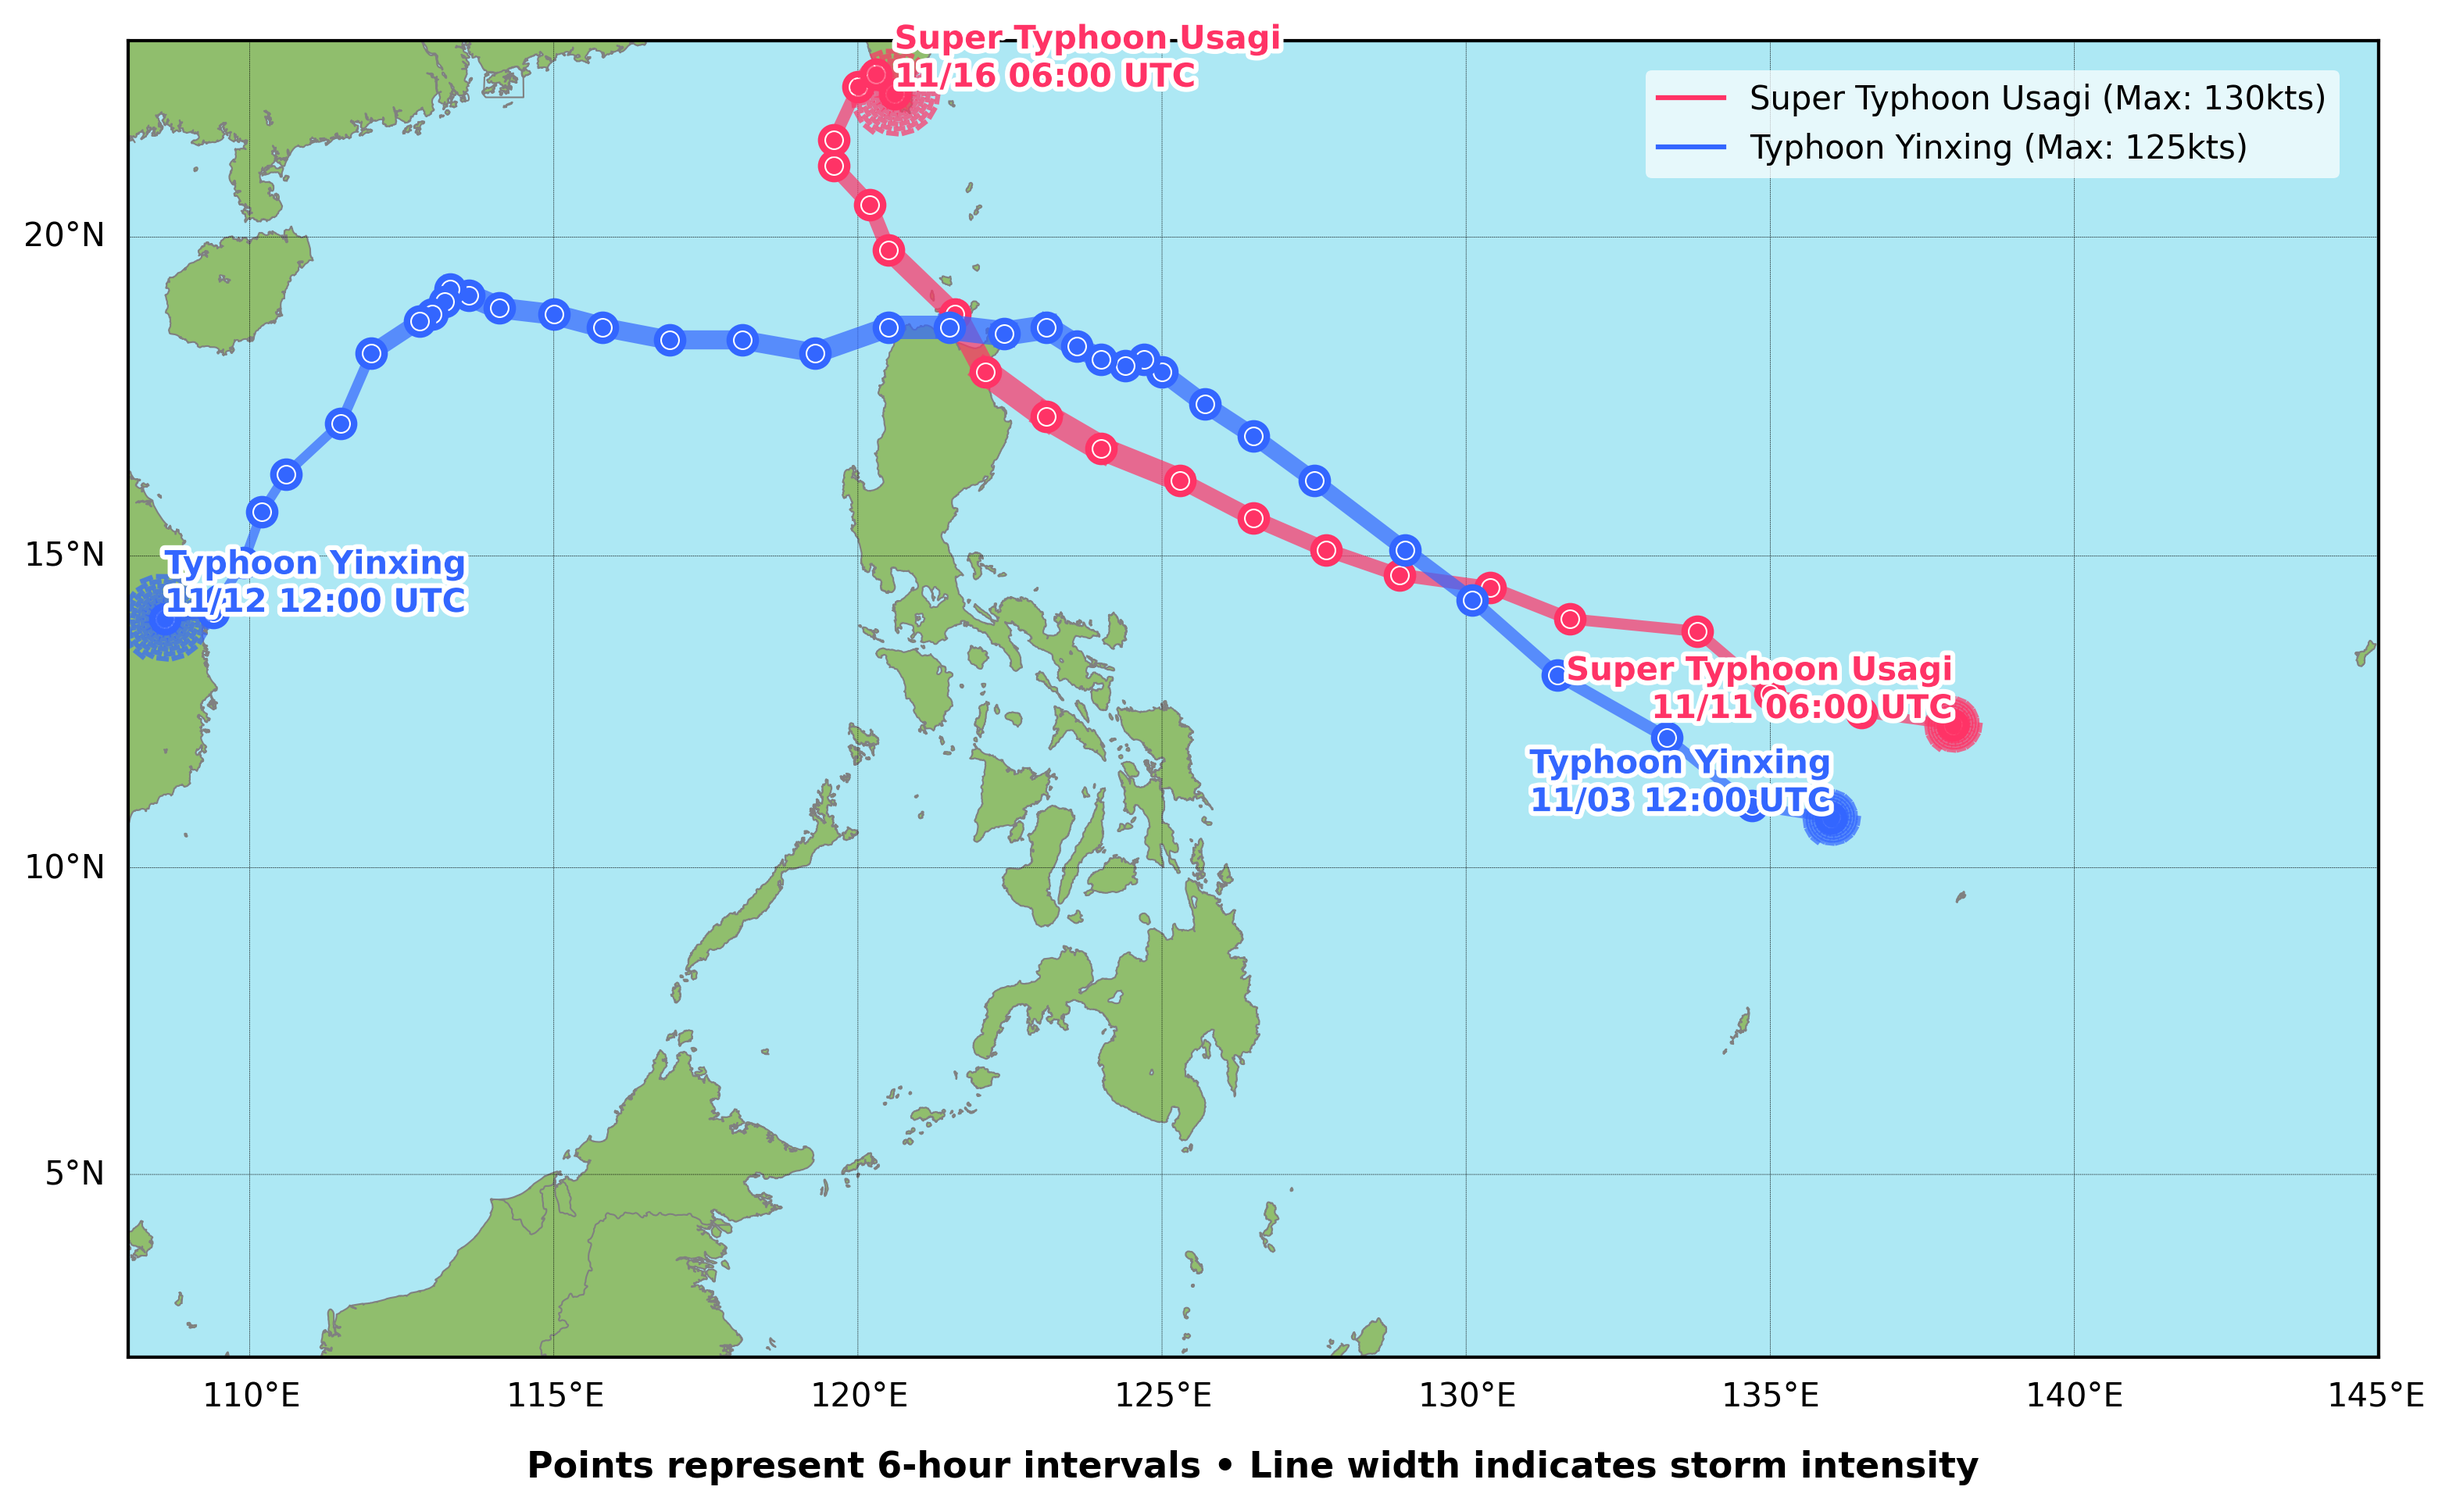
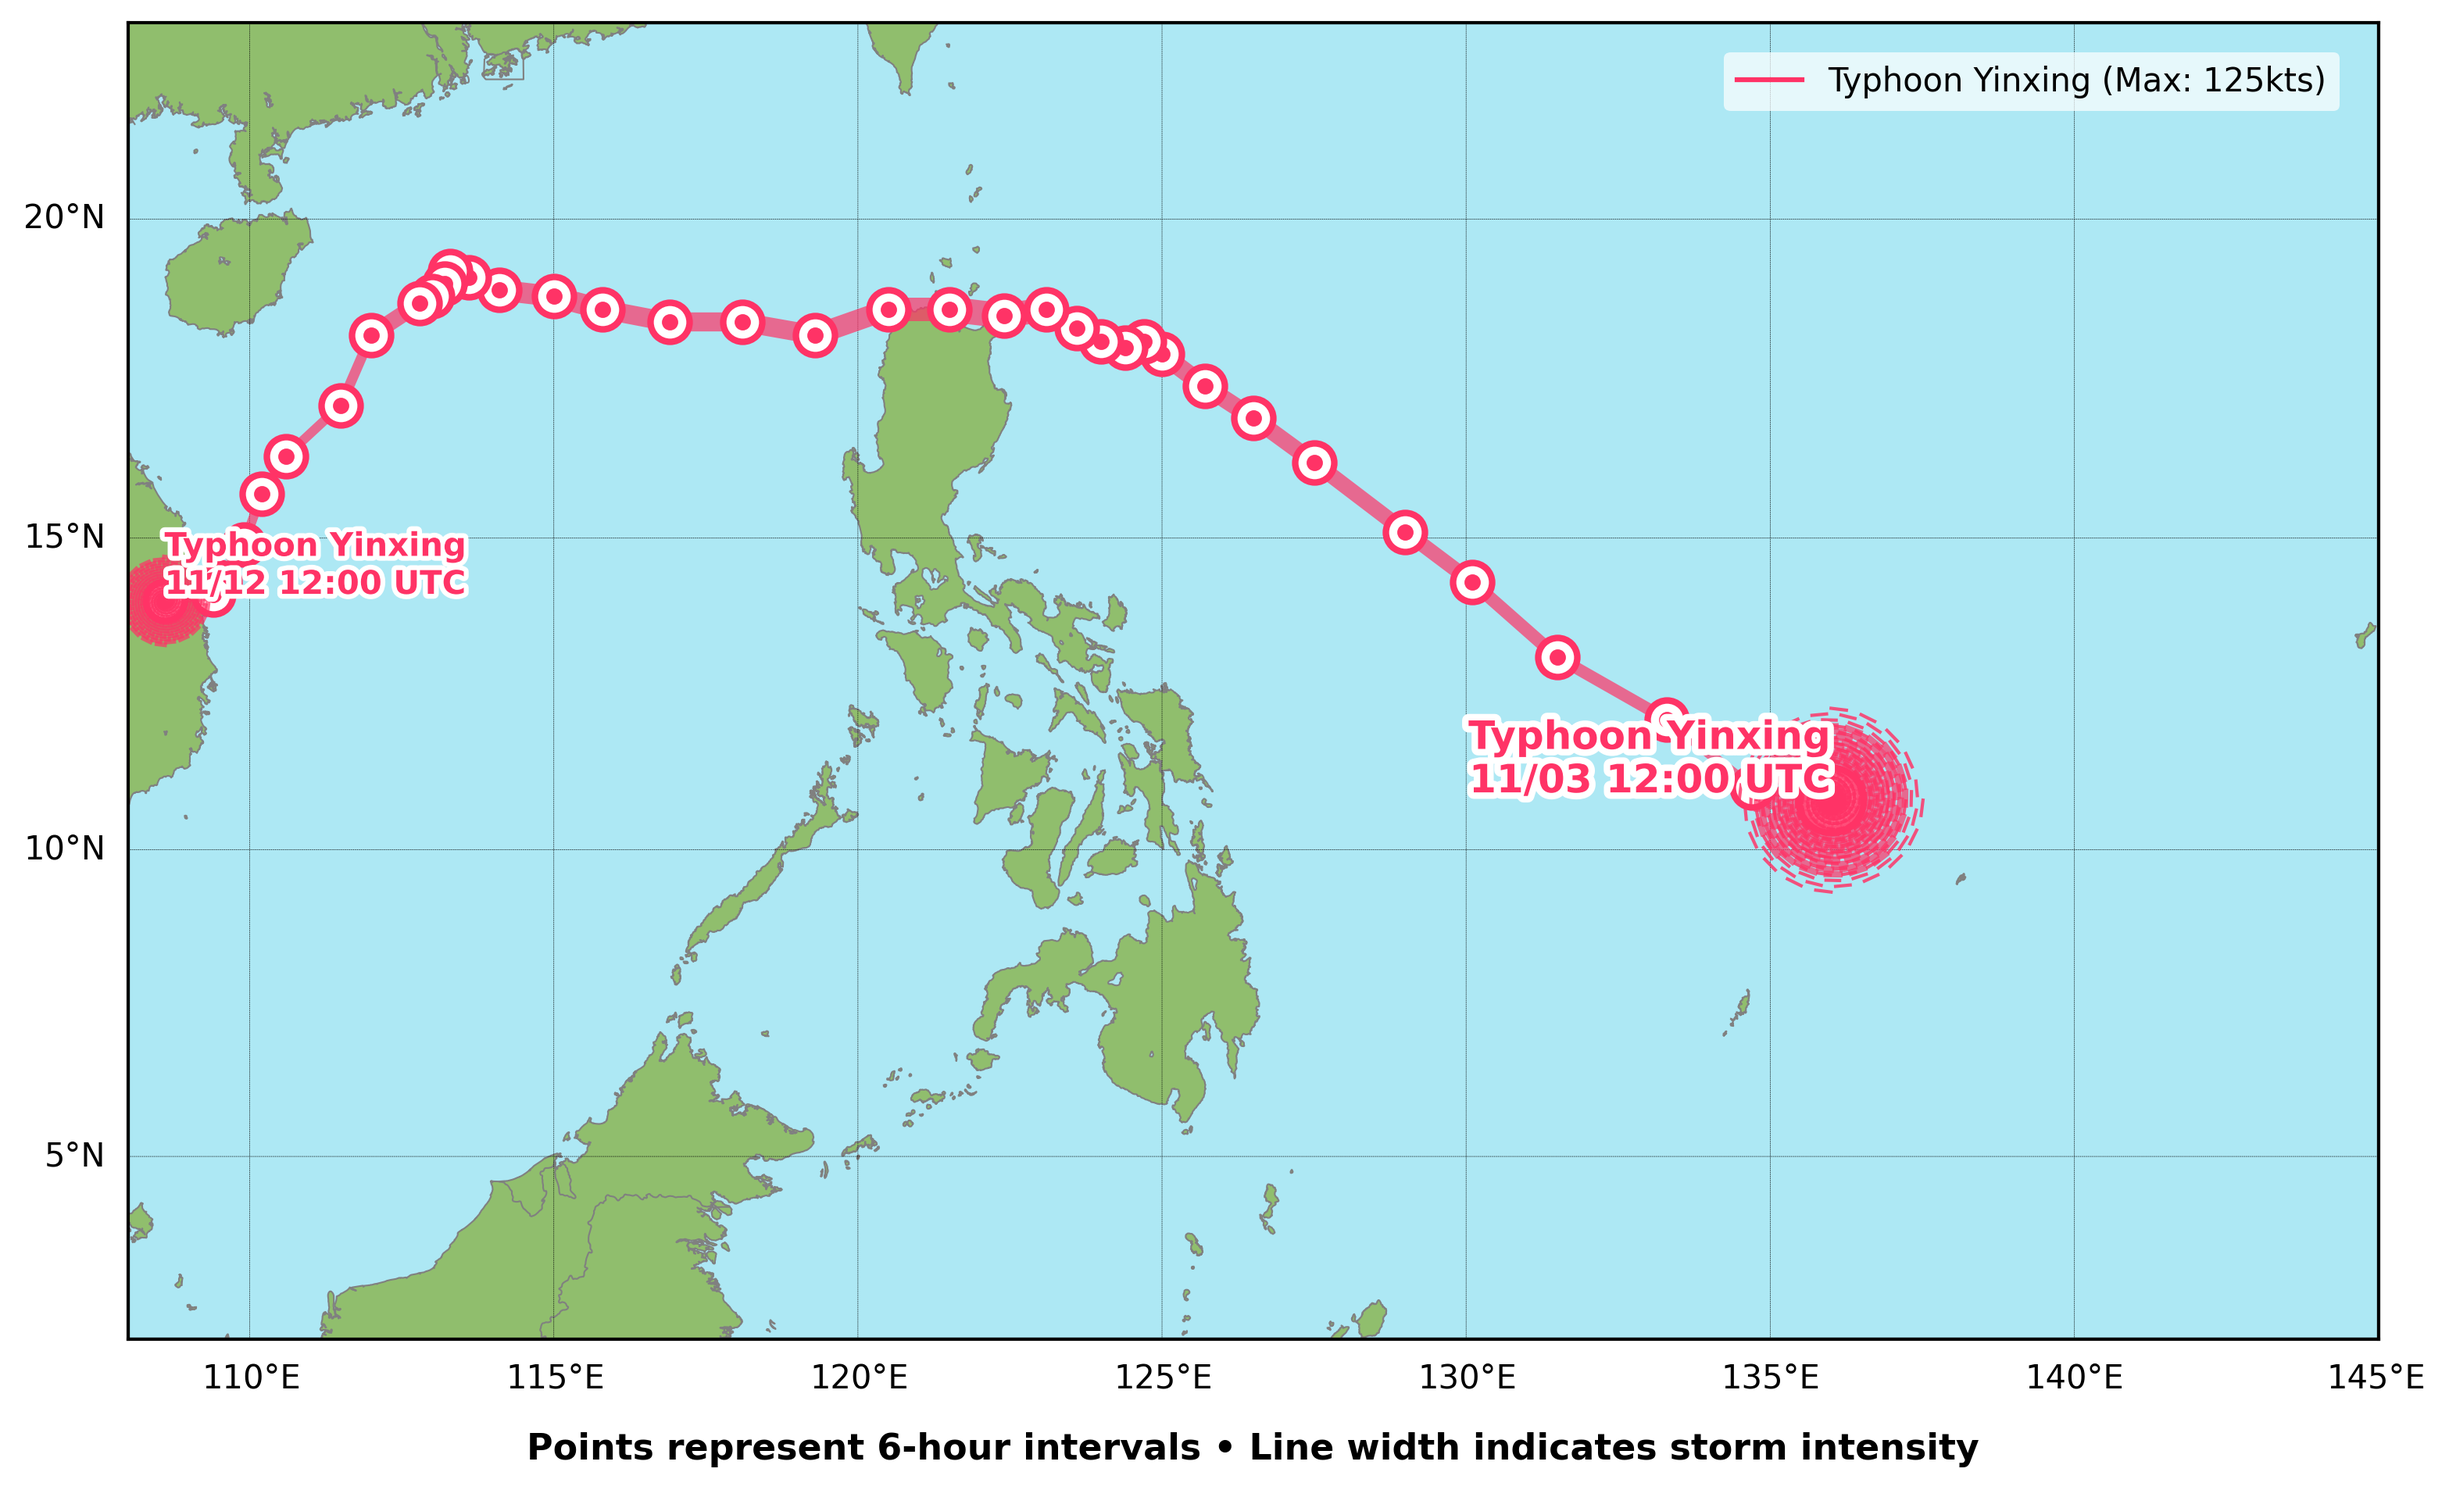
Better visualization
- Bigger typhoon/cyclone initial size
- Coordinates are more visible
- Modified /weather command behavior

diff --git a/src/bot.py b/src/bot.py
@@ -20,6 +20,7 @@ class WeatherBot(discord.Client):
         self.visualizer = StormVisualizer()
         self.cache = Cache()
         self.ph_timezone = pytz.timezone('Asia/Manila')
+        self.bg_task = None
 
         @self.tree.command(name="weather", description="Get Philippines Weather Updates.")
         async def weather(interaction: discord.Interaction):
@@ -27,8 +28,29 @@ class WeatherBot(discord.Client):
             logger.info(f"/weather command used in channel: {interaction.channel.name}")
 
             weather_channel = await self._get_or_create_weather_channel(interaction.guild)
-            await self._send_weather_update(weather_channel, interaction.user)
-            await interaction.followup.send(f"Weather update has been posted in {weather_channel.mention}")
+
+            if interaction.channel.id == weather_channel.id:
+                events = await self.nasa_client.fetch_severe_storms()
+
+                if events:
+                    image_path = await self.visualizer.plot_storm_path(events)
+
+                    if len(events) == 1:
+                        message_content = f"{interaction.user.mention} - Weather Alert: {events[0]['title']}"
+                    else:
+                        storm_names = ", ".join(event['title'] for event in events)
+                        message_content = f"{interaction.user.mention} - Weather Alert: Multiple storms detected ({storm_names})"
+
+                    if image_path:
+                        await interaction.followup.send(content=message_content, file=discord.File(image_path))
+                    else:
+                        await interaction.followup.send(content=f"{message_content} (No visualization available)")
+                else:
+                    message = f"{interaction.user.mention} - No active tropical cyclones or severe weather disturbances detected in the Philippine Area of Responsibility (PAR)."
+                    await interaction.followup.send(message)
+            else:
+                await self._send_weather_update(weather_channel, interaction.user)
+                await interaction.followup.send(f"Weather update has been posted in {weather_channel.mention}")
 
     async def _get_or_create_weather_channel(self, guild: discord.Guild) -> discord.TextChannel:
         channel_id = self.cache.get_weather_channel(str(guild.id))
@@ -51,25 +73,27 @@ class WeatherBot(discord.Client):
         logger.info(f"Created new weather channel in guild {guild.name} (ID: {guild.id})")
         return channel
 
-    async def _send_weather_update(self, channel: discord.TextChannel, user=None):
+    async def _send_weather_update(self, channel: discord.TextChannel, user=None, is_scheduled=False):
         events = await self.nasa_client.fetch_severe_storms()
+
+        prefix = "**Daily 8 AM PH Time Update**\n" if is_scheduled else ""
+        mention = f"{user.mention} - " if user else ""
         if events:
             image_path = await self.visualizer.plot_storm_path(events)
 
-            mention = f"{user.mention} - " if user else ""
             if len(events) == 1:
-                message_content = f"{mention}Weather Alert: {events[0]['title']}"
+                message_content = f"{prefix}{mention}Weather Alert: {events[0]['title']}"
             else:
                 storm_names = ", ".join(event['title'] for event in events)
-                message_content = f"{mention}Weather Alert: Multiple storms detected ({storm_names})"
+                message_content = f"{prefix}{mention}Weather Alert: Multiple storms detected ({storm_names})"
 
             if image_path:
                 await channel.send(content=message_content, file=discord.File(image_path))
             else:
                 await channel.send(content=f"{message_content} (No visualization available)")
         else:
-            mention = f"{user.mention} - " if user else ""
-            await channel.send(f"{mention}No weather updates available.")
+            message = f"{prefix}{mention}No active tropical cyclones or severe weather disturbances detected in the Philippine Area of Responsibility (PAR)."
+            await channel.send(message)
 
     async def scheduled_weather_update(self):
         while True:
@@ -86,7 +110,7 @@ class WeatherBot(discord.Client):
                         channel = guild.get_channel(channel_id)
                         if channel:
                             logger.info(f"Sending scheduled weather update to {guild.name}")
-                            await self._send_weather_update(channel)
+                            await self._send_weather_update(channel, is_scheduled=True)
                         else:
                             logger.warning(f"Weather channel not found in guild {guild.name}")
             except Exception as e:

diff --git a/src/visualization.py b/src/visualization.py
@@ -21,14 +21,15 @@ class StormVisualizer:
         self.output_dir.mkdir(exist_ok=True)
         self.storm_colors = ['#FF3366', '#3366FF', '#FF9933', '#33CC33']
 
-    def _create_typhoon_symbol(self, center_x, center_y, size=80000, rotation=0):
-        theta = np.linspace(0, 6 * np.pi, 100)
-        r = size * theta / (6 * np.pi)
+    def _create_typhoon_symbol(self, center_x, center_y, size=80000, rotation=0, is_start=False):
+        theta = np.linspace(0, 8 * np.pi, 150)
+        r = size * theta / (8 * np.pi)
         x = r * np.cos(theta)
         y = r * np.sin(theta)
 
         vertices = []
-        for angle in [0, 120, 240]:
+
+        for angle in [0, 90, 180, 270]:
             rad = np.radians(angle + rotation)
             rot_x = x * np.cos(rad) - y * np.sin(rad)
             rot_y = x * np.sin(rad) + y * np.cos(rad)
@@ -104,34 +105,55 @@ class StormVisualizer:
                              '-', color=color, linewidth=width, alpha=0.7)
 
                 for i in range(len(x)):
+                    outer_size = 16 if i == 0 else 8
+                    inner_size = 8 if i == 0 else 4
+
                     plt.plot(x[i], y[i], 'o',
-                             markersize=8,
+                             markersize=outer_size + 4,
                              markerfacecolor='white',
                              markeredgecolor=color,
                              markeredgewidth=2)
                     plt.plot(x[i], y[i], 'o',
-                             markersize=4,
+                             markersize=inner_size,
                              markerfacecolor=color,
                              markeredgecolor=color)
 
                 for i, (px, py) in enumerate([points[0][0], points[-1][0]]):
-                    vertices = self._create_typhoon_symbol(px, py,
-                                                           size=50000 if i == 0 else 80000)
-                    for j in range(0, len(vertices) - 1, 2):
-                        plt.plot([vertices[j][0], vertices[j + 1][0]],
-                                 [vertices[j][1], vertices[j + 1][1]],
-                                 color=color, alpha=0.7)
+                    if i == 0:
+                        for size_mult in [1.2, 1.0, 0.8]:
+                            vertices = self._create_typhoon_symbol(
+                                px, py,
+                                size=140000 * size_mult,
+                                rotation=45 if size_mult == 1.0 else 0,
+                                is_start=True
+                            )
+                            for j in range(0, len(vertices) - 1, 2):
+                                plt.plot([vertices[j][0], vertices[j + 1][0]],
+                                         [vertices[j][1], vertices[j + 1][1]],
+                                         color=color,
+                                         alpha=0.7 * size_mult,
+                                         linewidth=2 if size_mult == 1.0 else 1)
+
+                    else:
+                        vertices = self._create_typhoon_symbol(px, py, size=80000)
+                        for j in range(0, len(vertices) - 1, 2):
+                            plt.plot([vertices[j][0], vertices[j + 1][0]],
+                                     [vertices[j][1], vertices[j + 1][1]],
+                                     color=color,
+                                     alpha=0.7)
 
                 for pos, point_date in [(points[0][0], dates[0]), (points[-1][0], dates[-1])]:
                     text = f"{event['title']}\n{point_date.strftime('%m/%d %H:%M UTC')}"
                     ha = 'right' if point_date == dates[0] else 'left'
+
+                    outline_width = 4 if point_date == dates[0] else 3
                     plt.text(pos[0], pos[1], text,
                              color=color,
-                             fontsize=10,
+                             fontsize=12 if point_date == dates[0] else 10,
                              fontweight='bold',
                              horizontalalignment=ha,
                              verticalalignment='bottom',
-                             path_effects=[path_effects.withStroke(linewidth=3, foreground='white')])
+                             path_effects=[path_effects.withStroke(linewidth=outline_width, foreground='white')])
 
                 plt.plot([], [], '-', color=color,
                          label=f"{event['title']} (Max: {max(magnitudes):.0f}kts)")

diff --git a/src/config.py b/src/config.py
@@ -1,4 +1,5 @@
 import os
+import sys
 from dotenv import load_dotenv
 import logging
 from src.settings import *
@@ -10,14 +11,16 @@ CACHE_DIR.mkdir(exist_ok=True)
 for handler in logging.root.handlers[:]:
     logging.root.removeHandler(handler)
 
-logging.basicConfig(
-    level=logging.INFO,
-    format=LOG_FORMAT,
-    handlers=[
-        logging.FileHandler(BASE_DIR / "sierra.log"),
-        logging.StreamHandler()
-    ]
-)
+file_handler = logging.FileHandler(BASE_DIR / "sierra.log", encoding='utf-8')
+console_handler = logging.StreamHandler(sys.stdout)
+
+formatter = logging.Formatter(LOG_FORMAT)
+file_handler.setFormatter(formatter)
+console_handler.setFormatter(formatter)
+
+logging.root.setLevel(logging.INFO)
+logging.root.addHandler(file_handler)
+logging.root.addHandler(console_handler)
 
 config = {
     'DISCORD_BOT_TOKEN': os.getenv("DISCORD_BOT_TOKEN"),

diff --git a/src/settings.py b/src/settings.py
@@ -1,3 +1,4 @@
+import sys
 from pathlib import Path
 
 BASE_DIR = Path(__file__).parent.parent
